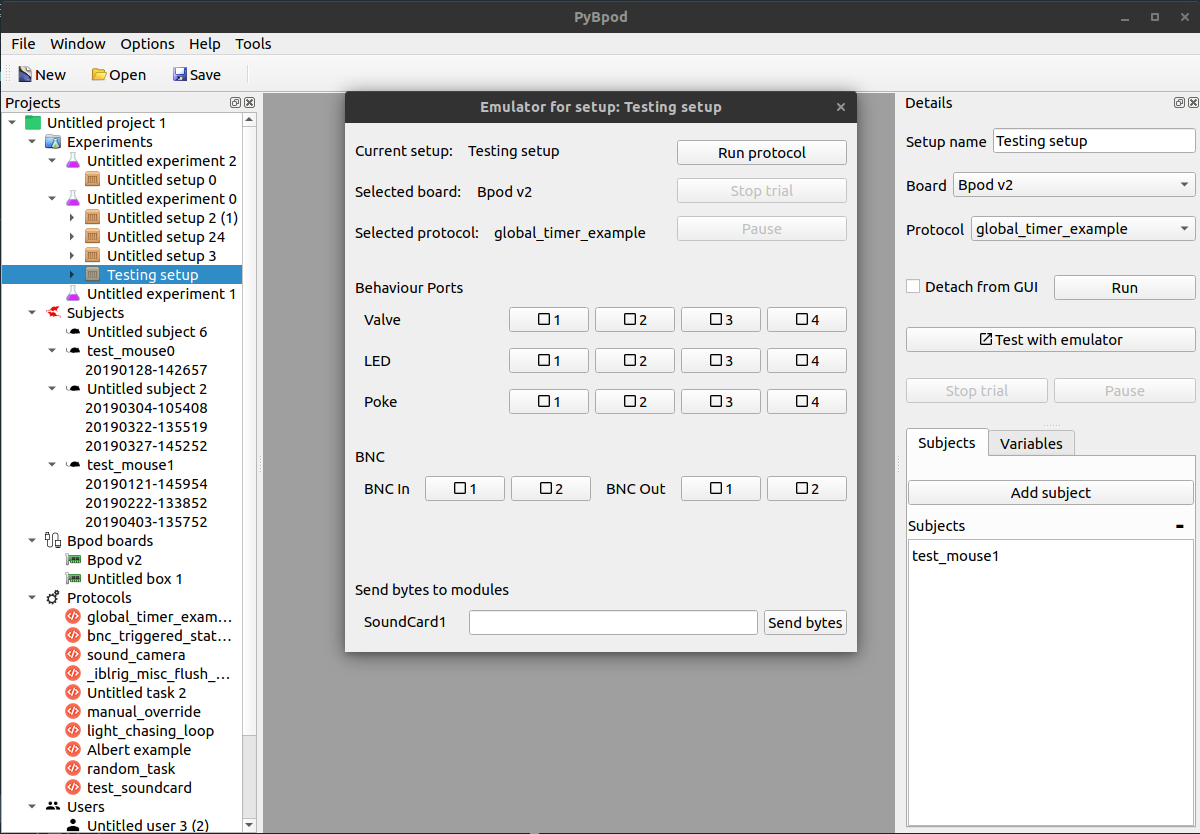
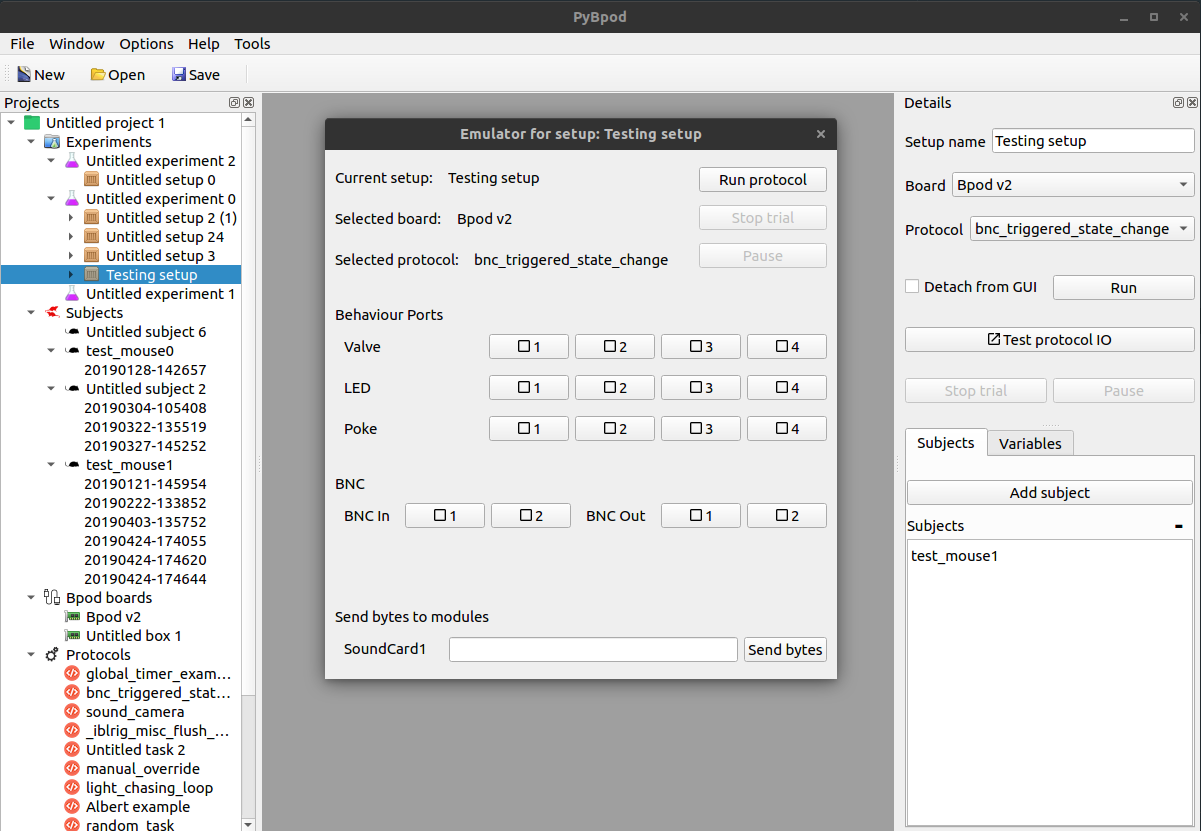
Update documentation with the new button name

diff --git a/docs/usage.rst b/docs/usage.rst
@@ -3,7 +3,7 @@ Usage
 =====
 
 After installing the plugin (please see :ref:`installation`),
-a new *Test with Emulator* button will appear in each of the
+a new *Test protocol IO* button will appear in each of the
 already configured Setups.
 
 .. warning::
